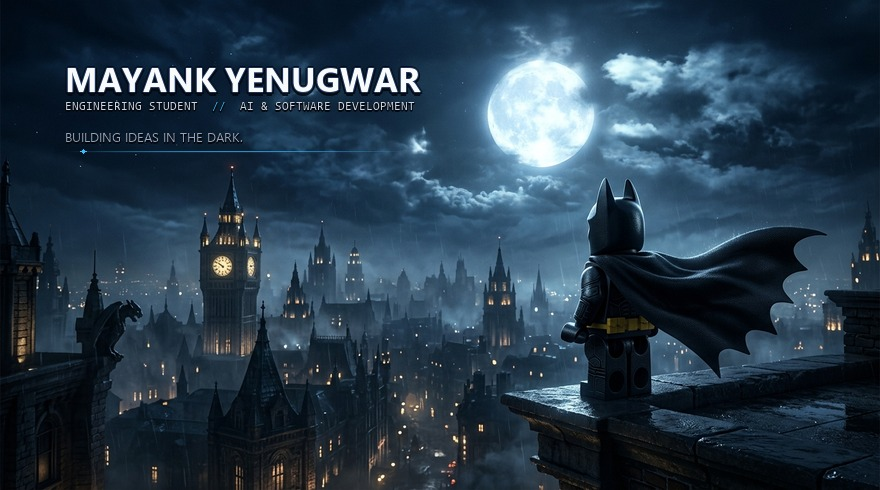
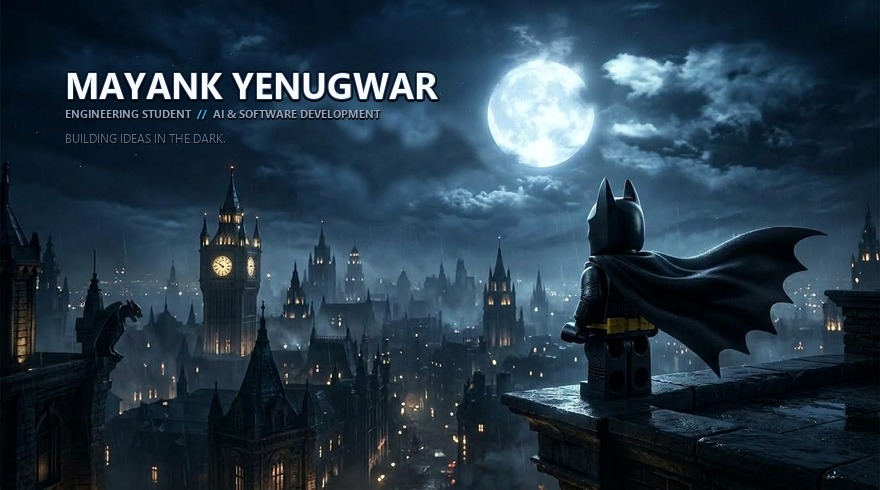
polish: refine Gotham hero scale, typography hierarchy, dividers, and mobile README structure

Changed region(s): [[0.0614, 0.1224, 0.5523, 0.4286], [0.6136, 0.7959, 0.675, 0.8265]]

diff --git a/README.md b/README.md
@@ -1,19 +1,19 @@
 <div align="center">
 
-  <img src="assets/gotham-hero.gif" alt="MAYANK YENUGWAR // Gotham Rooftop Vigilante" width="100%" style="border-radius: 8px; border: 1px solid #1e293b;" />
+  <img src="assets/gotham-hero.gif" alt="MAYANK YENUGWAR // Engineering Student" width="100%" style="border-radius: 8px; border: 1px solid #1e293b;" />
 
-  <br/>
+  <br/><br/>
 
   <p align="center">
     <a href="https://github.com/mayankyenugwar1">
-      <img src="https://img.shields.io/badge/GitHub-mayankyenugwar1-050814?style=flat-square&logo=github&logoColor=white&labelColor=02040a&color=38bdf8" alt="GitHub" />
+      <img src="https://img.shields.io/badge/GitHub-mayankyenugwar1-080e1a?style=flat-square&logo=github&logoColor=cbd5e1&labelColor=04060b&color=0d1527" alt="GitHub" height="20" />
     </a>
-    &nbsp;
+    &nbsp;&nbsp;
     <a href="mailto:mayankyenugwar1@gmail.com">
-      <img src="https://img.shields.io/badge/Email-mayankyenugwar1%40gmail.com-050814?style=flat-square&logo=gmail&logoColor=white&labelColor=02040a&color=f59e0b" alt="Email" />
+      <img src="https://img.shields.io/badge/Contact-Email-080e1a?style=flat-square&logo=gmail&logoColor=cbd5e1&labelColor=04060b&color=0d1527" alt="Contact" height="20" />
     </a>
-    &nbsp;
-    <img src="https://img.shields.io/badge/Status-Engineering%20Student-050814?style=flat-square&logo=target&logoColor=38bdf8&labelColor=02040a&color=1e293b" alt="Status" />
+    &nbsp;&nbsp;
+    <img src="https://img.shields.io/badge/Focus-Engineering%20%26%20AI-080e1a?style=flat-square&logo=terminal&logoColor=38bdf8&labelColor=04060b&color=0d1527" alt="Focus" height="20" />
   </p>
 
 </div>
@@ -24,18 +24,11 @@
   <img src="assets/gotham-divider.gif" width="100%" alt="Divider" />
 </p>
 
-## 🦇 01 // ABOUT ME
+## 01 // ABOUT ME
 
-```yaml
-Identity : MAYANK YENUGWAR
-Role     : Engineering Student & Developer
-Pursuit  : Artificial Intelligence • High-Performance Systems • Tactile Software
-Directive: Building ideas in the dark.
-```
+Engineering student exploring **artificial intelligence**, **software development**, and **creative technology**.
 
-I am an engineering student and developer focused on **artificial intelligence**, **reactive software systems**, and **creative technology**. 
-
-Drawn to gothic noir atmospheres, nocturnal architecture, and disciplined engineering, I build software that balances computational power with clean, deliberate design. Whether developing full-scale autonomous productivity environments or contemplative atmospheric web tools, I focus on turning complex logical problems into reliable, high-performance digital experiences.
+Currently building projects that turn ideas into experiences — balancing disciplined systems architecture with atmospheric, tactile digital design.
 
 <br/>
 
@@ -43,75 +36,11 @@ Drawn to gothic noir atmospheres, nocturnal architecture, and disciplined engine
   <img src="assets/gotham-divider.gif" width="100%" alt="Divider" />
 </p>
 
-## ⚔ 02 // CURRENTLY BUILDING
+## 02 // CURRENTLY BUILDING
 
-* **[TITAN V1.0](https://github.com/mayankyenugwar1/TITAN)** — Architecting an autonomous productivity operating system connecting Mission Control, Chrono Matrix, Knowledge OS (Second Brain), Projects &amp; OKRs, and an AI Commander Agent into one seamless workspace.
-* **[EXHALE](https://github.com/mayankyenugwar1/EXHALE)** — Refining a deep-space mindfulness application that pairs generative atmospheric aesthetics with psychological decompression.
-* **Intelligent Tooling** — Researching low-latency local model orchestration, agentic pipelines, and contextual state management.
-
-<br/>
-
-<p align="center">
-  <img src="assets/gotham-divider.gif" width="100%" alt="Divider" />
-</p>
-
-## 🏛 03 // FEATURED PROJECTS
-
-<table>
-  <tr>
-    <td width="50%" valign="top">
-      <h3 style="margin-top:0;">
-        <a href="https://github.com/mayankyenugwar1/TITAN">TITAN V1.0</a>
-      </h3>
-      <p><b>Autonomous Productivity Operating System</b></p>
-      <p>A unified tactical workspace connecting Mission Control, Chrono Matrix, Knowledge OS, Projects &amp; OKRs, and an AI Commander Agent into one command center.</p>
-      <p>
-        <img src="https://img.shields.io/badge/React_19-050814?style=flat-square&logo=react&logoColor=61DAFB" alt="React 19" />
-        <img src="https://img.shields.io/badge/TypeScript-050814?style=flat-square&logo=typescript&logoColor=3178C6" alt="TypeScript" />
-        <img src="https://img.shields.io/badge/Tailwind_v4-050814?style=flat-square&logo=tailwindcss&logoColor=06B6D4" alt="Tailwind CSS" />
-        <img src="https://img.shields.io/badge/Supabase-050814?style=flat-square&logo=supabase&logoColor=3ECF8E" alt="Supabase" />
-        <img src="https://img.shields.io/badge/Zustand-050814?style=flat-square&logo=redux&logoColor=white" alt="Zustand" />
-      </p>
-      <p>
-        <a href="https://github.com/mayankyenugwar1/TITAN"><b>View Repository →</b></a>
-      </p>
-    </td>
-    <td width="50%" valign="top">
-      <h3 style="margin-top:0;">
-        <a href="https://github.com/mayankyenugwar1/EXHALE">EXHALE</a>
-      </h3>
-      <p><b>Deep-Space Perspective &amp; Mindfulness Experience</b></p>
-      <p>A minimalist cosmic experience creating psychological distance from overwhelming thoughts through reflective writing, guided breathing, and perspective shift.</p>
-      <p>
-        <img src="https://img.shields.io/badge/React-050814?style=flat-square&logo=react&logoColor=61DAFB" alt="React" />
-        <img src="https://img.shields.io/badge/TypeScript-050814?style=flat-square&logo=typescript&logoColor=3178C6" alt="TypeScript" />
-        <img src="https://img.shields.io/badge/Framer_Motion-050814?style=flat-square&logo=framer&logoColor=EA4C89" alt="Framer Motion" />
-        <img src="https://img.shields.io/badge/Tailwind-050814?style=flat-square&logo=tailwindcss&logoColor=06B6D4" alt="Tailwind CSS" />
-        <img src="https://img.shields.io/badge/Netlify-050814?style=flat-square&logo=netlify&logoColor=00C7B7" alt="Netlify" />
-      </p>
-      <p>
-        <a href="https://github.com/mayankyenugwar1/EXHALE"><b>View Repository →</b></a> &nbsp;|&nbsp; 
-        <a href="https://exhale-cosmic.netlify.app"><b>Live Demo ↗</b></a>
-      </p>
-    </td>
-  </tr>
-  <tr>
-    <td colspan="2" valign="top">
-      <h3 style="margin-top:0;">
-        <a href="https://github.com/mayankyenugwar1/Paranoia">Paranoia</a>
-      </h3>
-      <p><b>Interactive Entertainment &amp; Gaming Platform</b></p>
-      <p>Exploration environment for interactive gaming mechanics, responsive audio-visual feedback, and real-time state management.</p>
-      <p>
-        <img src="https://img.shields.io/badge/JavaScript-050814?style=flat-square&logo=javascript&logoColor=F7DF1E" alt="JavaScript" />
-        <img src="https://img.shields.io/badge/Gaming-050814?style=flat-square&logo=googleplay&logoColor=white" alt="Gaming" />
-      </p>
-      <p>
-        <a href="https://github.com/mayankyenugwar1/Paranoia"><b>View Repository →</b></a>
-      </p>
-    </td>
-  </tr>
-</table>
+* **[TITAN V1.0](https://github.com/mayankyenugwar1/TITAN)** — Architecting an autonomous productivity operating system connecting Mission Control, Chrono Matrix, Knowledge OS (Second Brain), Projects &amp; OKRs, and an AI Commander Agent into one command center.
+* **[EXHALE](https://github.com/mayankyenugwar1/EXHALE)** — Refining a deep-space mindfulness experience combining generative cosmic aesthetics with psychological decompression.
+* **Intelligent Tooling** — Exploring low-latency local model orchestration, agentic workflows, and contextual state systems.
 
 <br/>
 
@@ -119,39 +48,32 @@ Drawn to gothic noir atmospheres, nocturnal architecture, and disciplined engine
   <img src="assets/gotham-divider.gif" width="100%" alt="Divider" />
 </p>
 
-## 🛡 04 // TECH STACK
+## 03 // FEATURED PROJECTS
 
-### Languages
-<p align="left">
-  <img src="https://img.shields.io/badge/TypeScript-050814?style=flat-square&logo=typescript&logoColor=3178C6" alt="TypeScript" />
-  <img src="https://img.shields.io/badge/JavaScript-050814?style=flat-square&logo=javascript&logoColor=F7DF1E" alt="JavaScript" />
-  <img src="https://img.shields.io/badge/Python-050814?style=flat-square&logo=python&logoColor=3776AB" alt="Python" />
-  <img src="https://img.shields.io/badge/SQL-050814?style=flat-square&logo=postgresql&logoColor=4169E1" alt="SQL" />
-  <img src="https://img.shields.io/badge/HTML5-050814?style=flat-square&logo=html5&logoColor=E34F26" alt="HTML5" />
-  <img src="https://img.shields.io/badge/CSS3-050814?style=flat-square&logo=css3&logoColor=1572B6" alt="CSS3" />
-</p>
+### ⚔ [TITAN V1.0](https://github.com/mayankyenugwar1/TITAN) — Autonomous Productivity OS
+> A unified tactical workspace connecting Mission Control, Chrono Matrix, Knowledge OS, Projects &amp; OKRs, and an AI Commander Agent into one command center.
 
-### Frameworks & Libraries
-<p align="left">
-  <img src="https://img.shields.io/badge/React_19-050814?style=flat-square&logo=react&logoColor=61DAFB" alt="React 19" />
-  <img src="https://img.shields.io/badge/Tailwind_CSS_v4-050814?style=flat-square&logo=tailwindcss&logoColor=06B6D4" alt="Tailwind CSS" />
-  <img src="https://img.shields.io/badge/Framer_Motion-050814?style=flat-square&logo=framer&logoColor=EA4C89" alt="Framer Motion" />
-  <img src="https://img.shields.io/badge/TanStack_Query-050814?style=flat-square&logo=reactquery&logoColor=FF4154" alt="TanStack Query" />
-  <img src="https://img.shields.io/badge/Radix_UI-050814?style=flat-square&logo=radixui&logoColor=FFFFFF" alt="Radix UI" />
-  <img src="https://img.shields.io/badge/Zustand-050814?style=flat-square&logo=redux&logoColor=white" alt="Zustand" />
-  <img src="https://img.shields.io/badge/Recharts-050814?style=flat-square&logo=chartdotjs&logoColor=22C55E" alt="Recharts" />
-</p>
+`React 19` &nbsp;•&nbsp; `TypeScript` &nbsp;•&nbsp; `Tailwind CSS v4` &nbsp;•&nbsp; `Supabase` &nbsp;•&nbsp; `Zustand`
 
-### Infrastructure & Tooling
-<p align="left">
-  <img src="https://img.shields.io/badge/Supabase-050814?style=flat-square&logo=supabase&logoColor=3ECF8E" alt="Supabase" />
-  <img src="https://img.shields.io/badge/Docker-050814?style=flat-square&logo=docker&logoColor=2496ED" alt="Docker" />
-  <img src="https://img.shields.io/badge/Vite-050814?style=flat-square&logo=vite&logoColor=646CFF" alt="Vite" />
-  <img src="https://img.shields.io/badge/Capacitor-050814?style=flat-square&logo=capacitor&logoColor=119EFF" alt="Capacitor" />
-  <img src="https://img.shields.io/badge/Vercel-050814?style=flat-square&logo=vercel&logoColor=FFFFFF" alt="Vercel" />
-  <img src="https://img.shields.io/badge/Netlify-050814?style=flat-square&logo=netlify&logoColor=00C7B7" alt="Netlify" />
-  <img src="https://img.shields.io/badge/Git-050814?style=flat-square&logo=git&logoColor=F05032" alt="Git" />
-</p>
+[**Explore Repository →**](https://github.com/mayankyenugwar1/TITAN)
+
+<br/>
+
+### 🌌 [EXHALE](https://github.com/mayankyenugwar1/EXHALE) — Deep-Space Perspective & Mindfulness
+> A minimalist cosmic experience creating psychological distance from overwhelming thoughts through reflective writing, guided breathing, and atmospheric pacing.
+
+`React` &nbsp;•&nbsp; `TypeScript` &nbsp;•&nbsp; `Framer Motion` &nbsp;•&nbsp; `Tailwind CSS` &nbsp;•&nbsp; `Netlify`
+
+[**Explore Repository →**](https://github.com/mayankyenugwar1/EXHALE) &nbsp;|&nbsp; [**Live Demo ↗**](https://exhale-cosmic.netlify.app)
+
+<br/>
+
+### 🕹 [Paranoia](https://github.com/mayankyenugwar1/Paranoia) — Interactive Entertainment Platform
+> An interactive gaming environment exploring responsive audio-visual feedback and real-time state orchestration.
+
+`JavaScript` &nbsp;•&nbsp; `Canvas` &nbsp;•&nbsp; `Interactive Systems`
+
+[**Explore Repository →**](https://github.com/mayankyenugwar1/Paranoia)
 
 <br/>
 
@@ -159,16 +81,30 @@ Drawn to gothic noir atmospheres, nocturnal architecture, and disciplined engine
   <img src="assets/gotham-divider.gif" width="100%" alt="Divider" />
 </p>
 
-## 📡 05 // GITHUB ACTIVITY
+## 04 // TECH STACK
+
+**Languages**  
+`TypeScript` &nbsp; `JavaScript` &nbsp; `Python` &nbsp; `SQL` &nbsp; `HTML5` &nbsp; `CSS3`
+
+**Frameworks &amp; Libraries**  
+`React 19` &nbsp; `Tailwind CSS v4` &nbsp; `Framer Motion` &nbsp; `TanStack Query` &nbsp; `Radix UI` &nbsp; `Zustand` &nbsp; `Recharts`
+
+**Infrastructure &amp; Tooling**  
+`Supabase` &nbsp; `Docker` &nbsp; `Vite` &nbsp; `Capacitor` &nbsp; `Vercel` &nbsp; `Netlify` &nbsp; `Git`
+
+<br/>
+
+<p align="center">
+  <img src="assets/gotham-divider.gif" width="100%" alt="Divider" />
+</p>
+
+## 05 // GITHUB ACTIVITY
 
 <div align="center">
 
-  <img src="https://github-readme-stats.vercel.app/api?username=mayankyenugwar1&show_icons=true&bg_color=050814&title_color=38bdf8&text_color=94a3b8&icon_color=f59e0b&border_color=1e293b&hide_rank=false" alt="Mayank's GitHub Stats" />
+  <img src="https://github-readme-stats.vercel.app/api?username=mayankyenugwar1&show_icons=true&bg_color=050814&title_color=38bdf8&text_color=94a3b8&icon_color=38bdf8&border_color=1e293b&hide_rank=false" alt="Mayank's GitHub Stats" />
   &nbsp;
   <img src="https://github-readme-stats.vercel.app/api/top-langs/?username=mayankyenugwar1&layout=compact&bg_color=050814&title_color=38bdf8&text_color=94a3b8&border_color=1e293b" alt="Top Languages" />
-
-  <br/><br/>
-  <sub><i>Telemetry streams reflect public repository metrics cached via GitHub API relays.</i></sub>
 
 </div>
 
@@ -178,7 +114,14 @@ Drawn to gothic noir atmospheres, nocturnal architecture, and disciplined engine
   <img src="assets/gotham-divider.gif" width="100%" alt="Divider" />
 </p>
 
-## 🦇 06 // FOOTER
+## 06 // CONTACT
+
+Feel free to connect, collaborate, or discuss projects:
+
+* **GitHub**: [@mayankyenugwar1](https://github.com/mayankyenugwar1)
+* **Email**: [mayankyenugwar1@gmail.com](mailto:mayankyenugwar1@gmail.com)
+
+<br/>
 
 <div align="center">
 
@@ -190,6 +133,6 @@ Drawn to gothic noir atmospheres, nocturnal architecture, and disciplined engine
     <i>"Where ideas meet the night."</i>
   </p>
 
-  <sub>© 2026 Mayank Yenugwar • Built in the dark • All systems nominal</sub>
+  <sub>© 2026 Mayank Yenugwar • Built in the dark</sub>
 
 </div>
